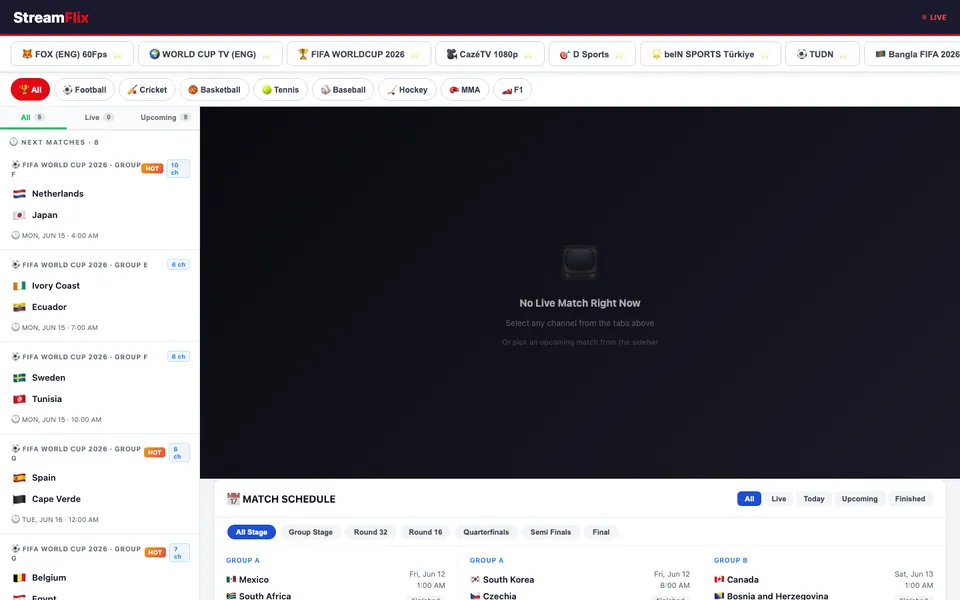
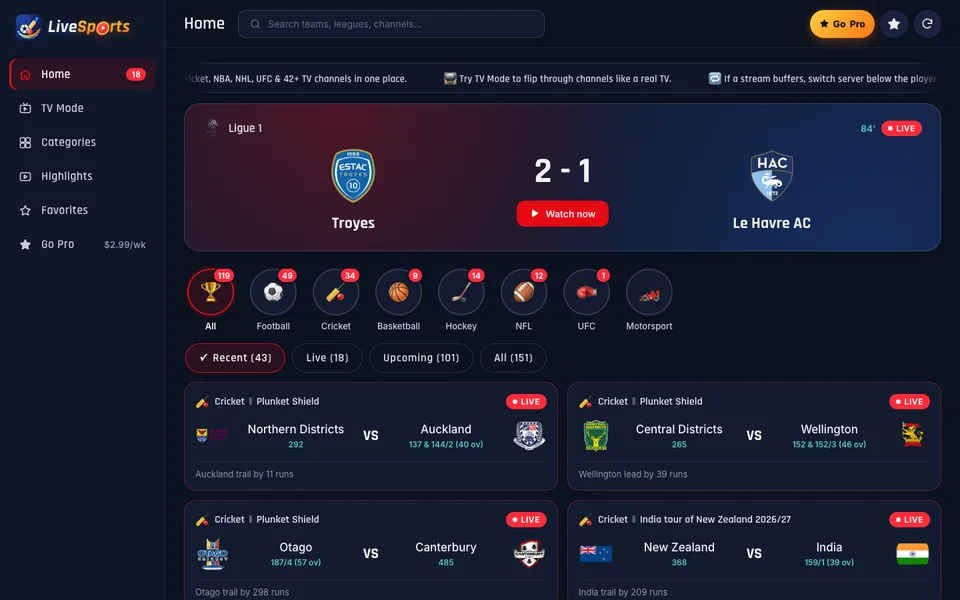
Rename StreamFlix to LiveSports with new screenshot and text

diff --git a/index.html b/index.html
@@ -443,7 +443,7 @@ C("App","note-sticky","Notes App","Feature-rich note-taking application with mar
 appsMore:[C("Soon","rocket","Coming Soon","New applications are in development. Stay tuned for new tools and creative solutions.",[],0,[L("Stay Updated","#contact",0)])],
 saas:[C("SaaS","pen-nib","WritexNova","AI writing platform with Humanizer, AI Detector, Paraphraser, Grammar Checker, Summarizer, Article Rewriter, AI Translator, Citation Generator and PDF Chat, with multi-model support.",["Node.js","Firebase","OpenAI","Lemon Squeezy"],["check-circle|Live product","shield-halved|AI Humanizer","toolbox|10+ AI tools"],[L("Visit","https://writexnova.com",1,0,1),L("Case Study","writexnova-casestudy.html",0),L("Code")]),
 C("SaaS","wand-magic-sparkles","Promptly","The complete AI workspace: write, design and research with one prompt. Chat with GPT-5, Claude Sonnet 4.5 and Gemini 2.5, generate images with Nano Banana, and turn one line into blog posts, research briefs and pitch decks.",["Next.js","MongoDB","OpenAI","Lemon Squeezy"],["check-circle|Live product","layer-group|Multi-model chat","image|AI images"],[L("Visit","https://aixnova.vercel.app",1,0,1),L("Case Study","aixnova-casestudy.html",0),L("Code")]),
-C("SaaS","tv","StreamFlix","Live IPTV & sports streaming platform with 7,500+ channels across 40+ countries, live sports, category & country filtering, HLS playback and a built-in sports proxy server.",["Node.js","Express","HLS.js","Vercel"],["tower-broadcast|Live TV & sports","satellite-dish|7,500+ channels","globe|40+ countries"],[L("Visit","https://streamflix-orpin.vercel.app/",1,0,1),L("Code")]),
+C("SaaS","tv","LiveSports","Live sports & TV streaming: football, cricket, NBA, NHL, UFC and motorsport with live scores, plus 42+ TV channels and a TV Mode that flips through channels like a real TV. Categories, highlights, favorites and a Go Pro plan with no ads.",["Node.js","Express","HLS.js","Vercel"],["tower-broadcast|Live TV & sports","satellite-dish|42+ TV channels","crown|Go Pro plan"],[L("Visit","https://streamflix-orpin.vercel.app/",1,0,1),L("Code")]),
 C("SaaS","film","Anime Maker","AI anime studio: Text → Anime Image in 10 styles (Studio Ghibli, Makoto Shinkai, Cyberpunk, Chibi, Retro 90s and more), Photo → Anime that keeps your face, an Avatar Maker, and Free / Pro / Premium plans. Voice Studio, Anime Video and a 4K Upscaler are on the way.",["Next.js","React","Tailwind CSS","Vercel"],["check-circle|Live product","palette|10 anime styles","camera|Photo → Anime"],[L("Visit","https://anime-maker-three.vercel.app/",1,0,1),L("Code")])],
 saasMore:[C("Open Source","fire","Habit Tracker","Open-access habit tracker with streaks, a 7-day calendar view, focus timer, mood check-ins, dark mode and a SaaS-style landing page — no sign-up required.",["Node.js","Express","Firestore","Vanilla JS"],["check-circle|Live product","bolt|No login","chart-line|Streaks"],[L("Visit","https://habit-tracker-psi-three.vercel.app",1,0,1),L("Code")])],
 client:[C("Client","shirt","Kyvro — কাইভ্রো","Fashion e-commerce platform for Bangladesh: a storefront with BDT pricing, bKash, Nagad and cash on delivery, a reseller platform where anyone can open their own shop, an AI help chat, and an admin portal with four roles.",["React","Vite","Tailwind CSS","Firebase","Vercel"],["check-circle|Live store","store|Reseller shops","robot|AI help chat"],[L("Visit","https://kyvro.store",1,0,1),L("Case Study","kyvro-casestudy.html",0),L("Code")]),
@@ -454,11 +454,11 @@ games:[C("Game","gamepad","Snake Game","Modern Snake game built with JavaScript 
 C("Puzzle","clone","Memory Match","Card-flipping memory game with 3 difficulty levels, 3D flip animations, a move counter and timer, and best scores saved on your device.",["JavaScript","CSS 3D","LocalStorage"],0,[L("Play","games/memory/",1),L("Code")]),
 C("Strategy","robot","Tic-Tac-Toe AI","Play against an unbeatable minimax AI, a relaxed easy mode, or a friend on the same screen — with a live scoreboard and winning-line highlights.",["JavaScript","Minimax AI","CSS"],0,[L("Play","games/tictactoe/",1),L("Code")]),
 C("Arcade","bolt","Neon Dodge","Fast canvas arcade game: dodge falling neon blocks, grab orbs for bonus points and survive as the speed ramps up. Keyboard, mouse and touch controls.",["Canvas API","JavaScript","Game Loop"],0,[L("Play","games/dodge/",1),L("Code")])],
-exp:[["2024 — Present","Indie SaaS Developer","Self-employed · Solo founder",["Built and deployed 6 SaaS products (WritexNova, Promptly, StreamFlix, Anime Maker, Tally, Kyvro) from zero to production — solo","Integrated payments (Stripe, Lemon Squeezy), auth (Firebase, Google OAuth, JWT) and AI APIs (OpenAI, Gemini) into commercial products","Built full-stack apps with Next.js, Node.js, Express, MongoDB and Firebase — deployed on Vercel and Render","Designed admin dashboards, credit systems, referral programs and user management","Shipped to real users with real payments — continuously iterating on feedback"]],
+exp:[["2024 — Present","Indie SaaS Developer","Self-employed · Solo founder",["Built and deployed 6 SaaS products (WritexNova, Promptly, LiveSports, Anime Maker, Tally, Kyvro) from zero to production — solo","Integrated payments (Stripe, Lemon Squeezy), auth (Firebase, Google OAuth, JWT) and AI APIs (OpenAI, Gemini) into commercial products","Built full-stack apps with Next.js, Node.js, Express, MongoDB and Firebase — deployed on Vercel and Render","Designed admin dashboards, credit systems, referral programs and user management","Shipped to real users with real payments — continuously iterating on feedback"]],
 ["2024 — Present","Frontend Developer","Personal & open-source projects",["Built responsive web apps and tools with HTML, CSS and JavaScript, focused on clean UI and great UX","Developed a Weather App, To-Do App, Calculator, Notes App and a Firebase Auth system","Learned Git, GitHub and version control through real project management","Explored cybersecurity fundamentals, SEO and responsive design best practices"]],
 ["Ongoing","Bachelor of Computer Science","INTI International University, Malaysia",["Focus on web development, software engineering and modern technologies","Member of university technology clubs and communities","Taking part in coding challenges and hackathons"],"education"]]
 };
-var SHOT={"WritexNova":"writexnova","Promptly":"aixnova","StreamFlix":"streamworld","Habit Tracker":"habit","Anime Maker":"animemaker","Kyvro — কাইভ্রো":"kyvro","Global Visa Connect":"visa","AirTicketHotel":"airtickethotel","Tally":"tally","Portfolio Website":"portfolio","Weather App":"weather","To-Do App":"todo","Calculator":"calc","Firebase Auth App":"auth","Notes App":"notes","Snake Game":"snake","Memory Match":"memory","Tic-Tac-Toe AI":"tictactoe","Neon Dodge":"dodge"};
+var SHOT={"WritexNova":"writexnova","Promptly":"aixnova","LiveSports":"streamworld","Habit Tracker":"habit","Anime Maker":"animemaker","Kyvro — কাইভ্রো":"kyvro","Global Visa Connect":"visa","AirTicketHotel":"airtickethotel","Tally":"tally","Portfolio Website":"portfolio","Weather App":"weather","To-Do App":"todo","Calculator":"calc","Firebase Auth App":"auth","Notes App":"notes","Snake Game":"snake","Memory Match":"memory","Tic-Tac-Toe AI":"tictactoe","Neon Dodge":"dodge"};
 var PRE={saas:"Product",client:"Client",projects:"Project",apps:"App",games:"Game"};
 function pad(n){return n<10?"0"+n:""+n}
 function card(c,i,k,off){var sh=SHOT[c.t],go=c.b.filter(function(l){return l[2]&&l[1]!="#"})[0],h='<article class="card rv" style="--d:'+(i%3)*90+'ms">';

diff --git a/index_3d.html b/index_3d.html
@@ -131,7 +131,7 @@ C("App","sticky-note","Notes App","Feature-rich note-taking application with mar
 appsMore:[C("","rocket","Coming Soon","Exciting new applications are in development. Stay tuned for innovative tools and creative solutions!",[],0,[L("Stay Updated","#",0,"bell")])],
 saas:[C("SaaS","pen-nib","WritexNova","AI writing platform with Humanizer, AI Detector, Paraphraser, Grammar Checker, Summarizer, Article Rewriter, AI Translator, Citation Generator, and PDF Chat — bypassing any AI detector with multi-model support.",["Node.js","Firebase","OpenAI","Lemon Squeezy"],["check-circle|Live Product","shield-alt|AI Humanizer","tools|10+ AI Tools","credit-card|Lemon Squeezy"],[L("Visit Platform","https://writexnova.com",1,"external-link-alt",1),L("Case Study","writexnova-casestudy.html",0,"file-alt"),L("Private Code","#",0,"lock")]),
 C("SaaS","wand-magic-sparkles","Promptly","Complete AI workspace with Multi-model Chat (GPT-5, Claude, Gemini), Image Studio, AI Writing, Deep Research, Web Search, Presentation Builder, Document Chat, 200+ Prompts, File Upload, and ⌘K Command Palette.",["Next.js","MongoDB","OpenAI","Lemon Squeezy"],["check-circle|Live Product","layer-group|8+ AI Tools","file-upload|File Upload","credit-card|Lemon Squeezy"],[L("Visit Platform","https://aixnova.vercel.app",1,"external-link-alt",1),L("Case Study","aixnova-casestudy.html",0,"file-alt"),L("Private Code","#",0,"lock")]),
-C("SaaS","tv","StreamFlix","Live IPTV & sports streaming platform with 7,500+ channels across 40+ countries, real-time live sports matches, category & country filtering, HLS video playback, and a built-in sports proxy server.",["Node.js","Express","HLS.js","Vercel"],["check-circle|Live Product","satellite-dish|7,500+ Channels","futbol|Live Sports","globe|40+ Countries"],[L("Visit Platform","https://streamflix-orpin.vercel.app/",1,"external-link-alt",1),L("Private Code","#",0,"lock")]),
+C("SaaS","tv","LiveSports","Live IPTV & sports streaming platform with 7,500+ channels across 40+ countries, real-time live sports matches, category & country filtering, HLS video playback, and a built-in sports proxy server.",["Node.js","Express","HLS.js","Vercel"],["check-circle|Live Product","satellite-dish|7,500+ Channels","futbol|Live Sports","globe|40+ Countries"],[L("Visit Platform","https://streamflix-orpin.vercel.app/",1,"external-link-alt",1),L("Private Code","#",0,"lock")]),
 C("Open Source","fire","Habit Tracker","Open-access habit tracker with streak tracking, a 7-day calendar view, focus timer, mood check-ins, dark mode, and a premium SaaS-style landing page — no sign-up or login required.",["Node.js","Express","Firestore","Vanilla JS"],["check-circle|Live Product","bolt|No Login Required","moon|Dark Mode","chart-line|Streak Tracking"],[L("Visit Platform","https://habit-tracker-psi-three.vercel.app",1,"external-link-alt",1),L("Private Code","#",0,"lock")])],
 saasMore:[C("SaaS","film","Anime Maker","AI anime creation platform with Text→Anime Image, Photo→Anime, Avatar Generator, Voice Studio, HD 4K Upscaler, Text→Anime Video, Photo→Anime Video, and History & Favorites — all in one sleek experience.",["Next.js","MongoDB","OpenAI","Lemon Squeezy"],["check-circle|Live Product","magic|7+ AI Tools","credit-card|Lemon Squeezy"],[L("Visit Platform","#",1,"external-link-alt",1),L("Case Study","#contact",0,"file-alt"),L("Private Code","#",0,"lock")])],
 client:[C("Open Source","graduation-cap","Global Visa Connect","Education visa consultancy website built for a client, covering 12 study destinations with per-country university and tuition fee listings, IELTS/PTE/TOEFL/Duolingo/SAT admission requirements, a student application form, and a full admin dashboard for managing countries, universities, and applications.",["Next.js","Firebase","Tailwind CSS","Vercel"],["check-circle|Live Product","globe|12 Countries","user-shield|Admin Dashboard","file-signature|Application Form"],[L("Visit Platform","https://global-visa-connect-psi.vercel.app",1,"external-link-alt",1),L("Private Code","#",0,"lock")])],
